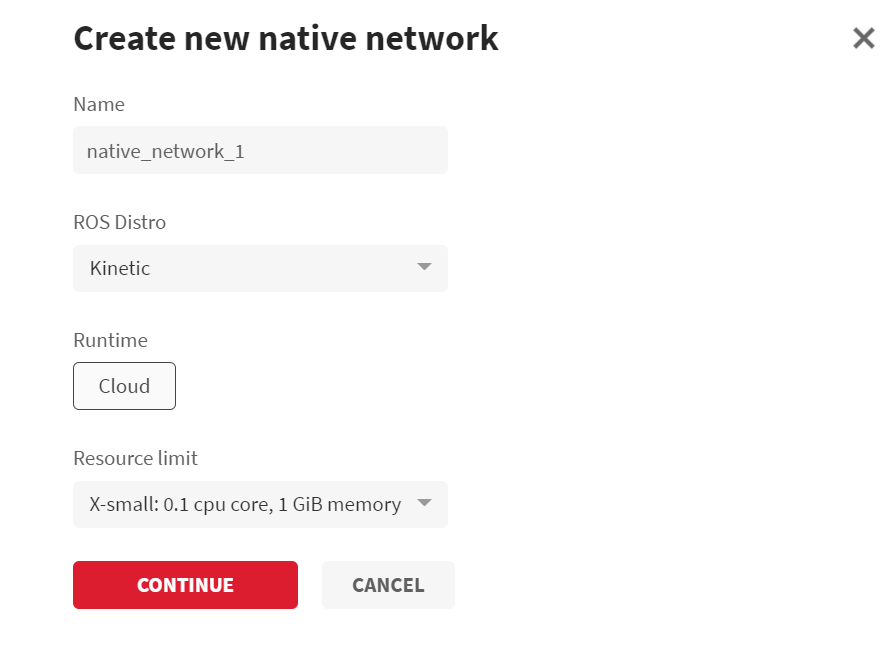
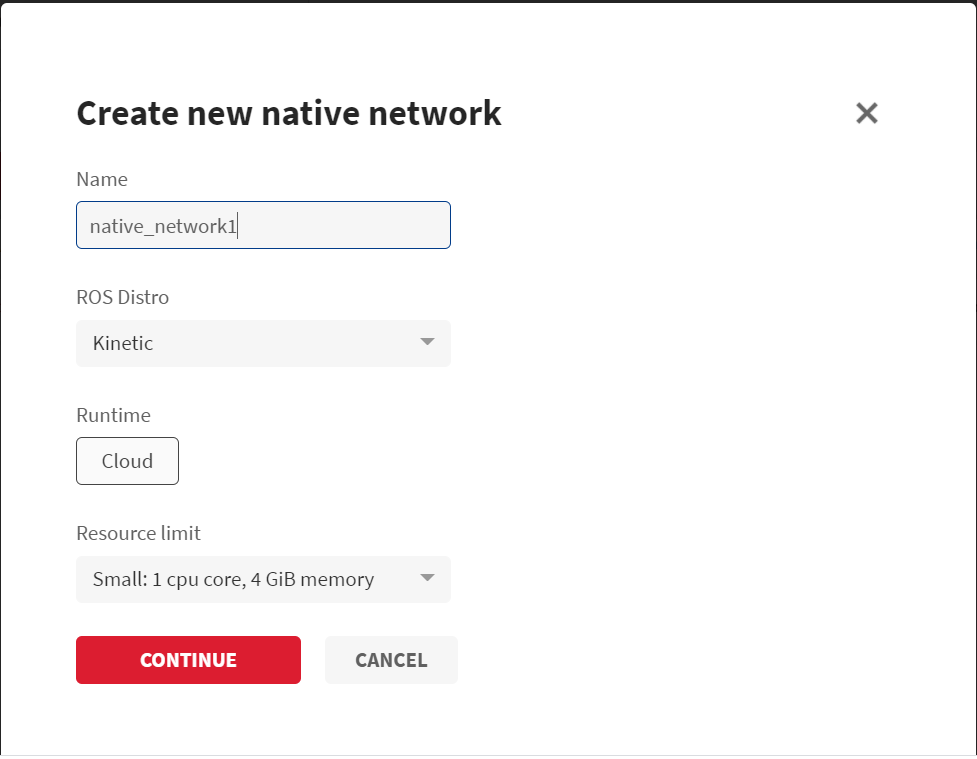
Fixed Hitesh's review comments

diff --git a/hugo/content/5_deep-dives/53_Networking-and-communication/535_ROS-network-native.md b/hugo/content/5_deep-dives/53_Networking-and-communication/535_ROS-network-native.md
@@ -3,7 +3,7 @@
 title: "ROS Native Networks"
 intro: rapyuta.io is a platform that enables robotics solution development by providing the necessary software infrastructure and facilitating the interaction between multiple stakeholders who contribute to the solution development.
 
-weight: 532
+weight: 531
 
 versions:
   free-pro-team: '*'
@@ -32,10 +32,14 @@ tags:
 Native Network is a beta feature.
 {{%/notice%}}
 
-A native network allows you to communicate between different ROS environments that are deployed either in the cloud or devices when they are in the same network.  
+A native network allows you to communicate between different ROS environments as described in the following scenarios.
+
+* ROS environments that are deployed in the cloud.
+* ROS environments that are deployed in the device within the same local area network.
+
 
 {{%notice info%}}
-This eliminates the need of creating a separate native network for the local communication and significantly decreases the latency as the communication doesn't involve a cloud bridge for individual ROS environments for communication.
+This eliminates the need of creating a separate routed network for the local communication and significantly decreases the latency as the communication doesn't involve a cloud bridge for individual ROS environments for communication.
 {{%/notice%}}
 
 In case of native network, all the connected ROS environments can discover each other and the communication happens in a peer-to-peer manner. Each ROS environment has its own ROS master and the rapyuta.io platform uses a sub-component based on [FKIE multimaster](https://github.com/fkie/multimaster_fkie) to achieve it.
@@ -43,9 +47,11 @@ In case of native network, all the connected ROS environments can discover each 
 
 ### Cloud Native Network
 
-When you deploy a native network to the cloud, it is considered as a cloud native network.
+When you deploy a native network to the cloud, it is considered as a cloud native network. Any compute resources (CPU/memory) consumed by this routed network deployment count against your cloud deployment hours quota.
 
-When creating a cloud native network, the **Resource limit** field defines the memory allocation and computational ability of the native network. These resources are reserved in the platform for effective ROS communication. You can choose the resource limit of a native network based on the following requirements.
+#### Resource Limit 
+
+When creating a cloud native network, the **Resource limit** field defines the memory allocation and computational capability of the native network. These resources are reserved in the platform for effective ROS communication. You can choose the resource limit of a native network based on the following requirements.
 
 * number of topics/services/actions
 * number of publishers/subscribers/services that will be activated under a particular native network.
@@ -69,16 +75,20 @@ We want to establish communication between these 3 ROS packages.  To simplify th
 
 The result is as follows
 
-* We have established communication between the packages in the same local area network by using a native network.
+* We have established communication between the packages deployment in the cloud (as they are  considered as being in the same local area network)
 
-Info: We can establish this communication by using a cloud routed network. However, using a touted network involves cloud bridges for each ROS environment that adds latency when service/action/topics are being called in the same local area network.
+
+{{%notice info%}}
+We can establish this communication by using a cloud routed network. However, using a routed network involves cloud bridge for each ROS environment that adds latency when service/action/topics are being called in the same local area network.
+{{%/notice%}}
 
 #### Pros 
 
-* Communication through a native network doesn't require a cloud bridge component thereby eliminating the latency in each hop-on of messages as in the case of a routed network. This results in low-latency communication.
+* Communication through a native network is happening peer-to-peer manner that means the subscriber directly makes ROSTCP connection with the publisher thereby eliminating the latency in each hop-on of messages as in the case of a routed network via cloud bridge. This results in low-latency communication.
 
 * You can see the list of publishers whitelisted in your package components in your *rostopic list* command.
 
+* Native network is very similar to the local single ROS master environment.
 
 #### Cons
 
@@ -87,7 +97,7 @@ Info: We can establish this communication by using a cloud routed network. Howev
 
 {{%notice note%}}
 When you subscribe to a topic from a different ROS environment, this subscriber information is kept locally and only shared if a topic is whitelisted in a package component.
-{{/notice}}
+{{%/notice%}}
 
 
 ### Device Native Network
@@ -99,11 +109,17 @@ Currently supported for cloud runtime only. You can use a routed network instead
 
 ### Multi-Robot Communication 
 
-* Communication is happening in a peer-peer manner, which means different ROS masters or environments are connected via platform using a sub-component based on [FKIE multi master nodes](https://github.com/fkie/multimaster_fkie) (master-discovery and master-sync). These two nodes are responsible for establishing the communication between ROS masters that are in the same network.
-
+* Communication is happening in a peer-peer manner, which means different ROS masters or environments are connected via platform using a sub-component based on [FKIE multi master nodes](https://github.com/fkie/multimaster_fkie) ([master-discovery](http://fkie.github.io/multimaster_fkie/master_discovery.html) and [master-sync](http://fkie.github.io/multimaster_fkie/master_sync.html)). These two nodes are responsible for establishing the communication between ROS masters that are in the same network.
+* Native network doesn’t share the parameters between different ROS environments.
 * Platform only whitelists the topics/service mentioned in the package component, and the platform doesn't interpret or listen to the data flowing between them unlike in case of a routed network thus reducing the latency. It only shares publisher/service information on the network.
+* Scoped or targeted topics (service or action) are the functionalities of a routed network. In the case of a native network, topics are whitelisted in the form of **/*/topics** and you can use remap or add namespaces to these topics for communication. For more information on remapping, [click here](http://wiki.ros.org/roslaunch/XML/remap).
+* While deploying a package, you can mention [ROS Environment Alias](/5_deep-dives/53_networking-and-communication/531_ros-network-routed/#ros-environment-aliases-runtime-identity-assignment) in case of native network as well. Users can use $RIO_ROS_ENV_ALIAS environment variable set by rapyuta.io add ROS_NAMESPACE in your ROS environment, which will help you in doing namespacing.
 
-* Scoped or targeted topics (service or action) are the functionalities of a routed network. In the case of a native network, topics are whitelisted in the form of **/*/topics** and you can use remap or add namespaces to these topics for communication. For more information on remapping, [click here](http://wiki.ros.org/roslaunch/XML/remap). 
+
+{{%notice warning%}}
+*for tf topic*: if you don’t add tf_prefix, don’t expose the topic as there is a possibility of mixing of tf.
+{{%/notice%}}
+
 
 
 {{%notice note%}}

diff --git a/hugo/content/4_tutorials/41_beginner/418_ros-pub-sub-native-network.md b/hugo/content/4_tutorials/41_beginner/418_ros-pub-sub-native-network.md
@@ -1,5 +1,5 @@
 ---
-title: ROS Publisher Subscriber (Native Network)
+title: ROS Publisher Subscriber (Native)
 description: null
 type: build-solutions
 date: 2019-10-24T08:17:13.000Z
@@ -45,12 +45,12 @@ The build takes about two to five minutes to build the source code in the *io_tu
 
 ## Creating the Package
 
-To create the _Docker publisher subscriber_ package using the
+To create the _native publisher subscriber_ package using the
 [console](https://console.rapyuta.io), follow the steps:
 
 1. On the left navigation bar, click **Development>Catalog**.
 2. Click **ADD NEW PACKAGE**.
-3. In the **Package Name** box, type in a name for the package say `Docker publisher subscriber`
+3. In the **Package Name** box, type in a name for the package say `Native publisher subscriber`
 4. In the **Package Version** box, enter the version of the package you are creating.
    The default value is _1.0.0_
 5. Ensure that **Is a bindable package** is selected.
@@ -101,7 +101,7 @@ The name of a component must consist of alphabets [A-Z, a-z], digits [0-9], hyph
 The name of an executable must consist of alphabets [A-Z, a-z], digits [0-9], hyphen - and an underscore _ character, and must not begin with a digit.
 {{% /notice %}}
     6. For **Executable Type**, click on **Builds**.
-    7. In the **Choose Build** select the second Build `io-tutorials-arm32v7` from the drop-down list.
+    7. In the **Choose Build** select the second Build `io-tutorials` from the drop-down list.
     8. In the **Command to run in the docker container** box, enter the command:
         ```bash
         roslaunch listener listener.launch
@@ -114,18 +114,18 @@ The name of an executable must consist of alphabets [A-Z, a-z], digits [0-9], hy
     9. Click **NEXT** > **CONFIRM PACKAGE CREATION**.
 
 ## Create a Native Network
-A native network allows you to establish ROS communication between different ROS environments within the same local area network. Binding a native network resource to your deployment will enable other deployments on the same native network to consume ROS topics/services/actions as defined in the package. If you have already created a routed network, you can skip this procedure.
+If you have already created a native network, you can skip this procedure. For more information about native network, [click here](/5_deep-dives/53_networking-and-communication/535_ros-network-native/)
 
-Perform the following procedure to create a routed network.
+Perform the following procedure to create a native network.
 
 1. On the left navigation bar, click **Networking>Networks**.
 2. Click **ADD  NETWORK** and select the network type as **Native Network**.
-3. In the **Create new native network** dialog-box, enter `cloud_native_network_1` as the name for the native network.
+3. In the **Create new native network** dialog-box, enter `cloud_native_network1` as the name for the native network.
 4. Select **ROS Distro**, as   **Kinetic**.
 5. Select the **Runtime** as **Cloud**.
 6. From the **Resource limit** field, select the memory allocation and computational ability of the routed network. These resources are reserved in the platform for effective ROS communication. For this tutorial, you can select **Small: 1cpu core, 4 GiB memory** as the resource limit.
 
-7. Click **CONTINUE** and wait for the routed network to be successfully running.
+7. Click **CONTINUE** and wait for the native network to be successfully running.
 
 
 ## Deploying the package
@@ -133,11 +133,11 @@ To deploy a package using the [console](https://console.rapyuta.io),
 follow the steps:
 
 1. On the left navigation bar, click **Development>Catalog**.
-2. Select the _Docker publisher subscriber_ package.
+2. Select the ` native publisher subcriber` package.
 3. Click **Deploy package**.
 4. In the **Name of deployment** box, enter a name for the deployment you are
-   creating say `Docker Publisher Subscriber Deployment`.
-5. Click on **Native NETWORK** > **Add**, select the routed network, `cloud_native_network_1`, from the drop-down list.
+   creating say `Native Publisher Subscriber Deployment`.
+5. Click on **Native NETWORK** > **Add**, select the native network, `cloud_native_network1`, from the drop-down list.
 6. Click **CREATE DEPLOYMENT** > **Confirm**.
 
 You will be redirected to the newly created deployment's **Details** page where a green colored bar
@@ -145,7 +145,7 @@ moves from **In progress** to **Succeeded** with **Status:Running** indicating t
 
 You may also analyze the corresponding deployment logs to check if everything is working OK.
 
-![Docker Publisher Subscriber Deployment](/images/tutorials/docker-pub-sub/docker-pubsub-deployment.png?classes=border,shadow&width=50pc)
+![Docker Publisher Subscriber Deployment](/images/tutorials/docker-pub-sub/native-pubsub-deployment.png?classes=border,shadow&width=50pc)
 
 The **listener-listenerExecutable** will be streaming */listener I heard hello_world* logs.
 

diff --git a/hugo/content/5_deep-dives/53_Networking-and-communication/531_ROS-network-routed.md b/hugo/content/5_deep-dives/53_Networking-and-communication/531_ROS-network-routed.md
@@ -3,7 +3,7 @@
 title: "ROS Routed Networks"
 intro: rapyuta.io is a platform that enables robotics solution development by providing the necessary software infrastructure and facilitating the interaction between multiple stakeholders who contribute to the solution development.
 
-weight: 531
+weight: 532
 
 versions:
   free-pro-team: '*'
@@ -28,14 +28,14 @@ introLinks: {}
 tags:
     - Deep Dive
 ---
-A routed network allows you to communicate between different ROS environments in the following.
+A routed network allows you to communicate between different ROS environments as described in the following scenarios.
 
 * ROS environments that are deployed in the cloud.
 * ROS environments that are deployed in the device (can be in same or different networks)
 * A combination of both
 
 {{%notice info%}}
-To reduce the latency, it's advised to use native network within the same local area network. For more information, [click here](/5_deep-dives/53_networking-and-communication/535_ros-network-native/).
+In latency sensitive applications, when all the ROS environments are in  (For example, in case of simulation), it is advised to use native network. For more information, [click here](/5_deep-dives/53_networking-and-communication/535_ros-network-native/).
 {{%/notice%}}
 
 In case of routed network, the rapyuta.io platform relies on a sub-component called the cloud bridge for implicitly establishing a communication channel between two or more ROS environments. It is an application-level bridge that offers many compelling features to ROS developers including augmented ROS over the public internet and dedicated features for dynamic multi-robot ROS communication. 
@@ -46,9 +46,9 @@ When a user deploys a routed network to the cloud it is considered a cloud route
 
 Package deployments in the cloud __OR__ device can connect to a cloud routed network.
 
-#### Resource Limit for Cloud Routed Network
+#### Resource Limit
 
-When creating a cloud routed network, the **Resource limit** field defines the memory allocation and computational ability of the routed network. These resources are reserved in the platform for effective ROS communication. You can choose the resource limit of a routed network based on the following requirements.
+When creating a cloud routed network, the **Resource limit** field defines the memory allocation and computational capability of the routed network. These resources are reserved in the platform for effective ROS communication. You can choose the resource limit of a routed network based on the following requirements.
 
 * size of ROS messages
 * frequency of ROS messages
@@ -107,17 +107,14 @@ We want to establish a communication between these 3  ROS packages.  You can use
 The result is as follows
 
 * We have established a communication between the packages in the same routed network.
-
-Info: We can achieve the communication by using a cloud routed network. However, using a cloud routed network might cause a latency in the  communication even if the devices are sharing the same local area network.
+{{%notice info%}}
+We can achieve the communication by using a cloud routed network. However, using a cloud routed network might cause a latency in the  communication even if the devices are sharing the same local area network.
+{{%/notice%}}
 
 #### Pros 
-
 * Creates a low-latency communication as there is no need of a roundtrip of communication through cloud.
-
 #### Cons
-
 * Communication through a device routed network is only possible for the ROS environments sharing the same local area network and the packages deployed in the devices.
-
 
 ### Multi-Robot Communication
 

diff --git a/hugo/content/4_tutorials/41_beginner/411_ros-pub-sub.md b/hugo/content/4_tutorials/41_beginner/411_ros-pub-sub.md
@@ -1,5 +1,5 @@
 ---
-title: ROS Publisher Subsciber (Cloud Routed Network)
+title: ROS Publisher Subsciber (Routed)
 description: null
 type: build-solutions
 date: 2019-10-24T08:17:13.000Z
@@ -16,7 +16,7 @@ is launched when the package is deployed.
 ## Learning objectives
 The tutorial will show you how to deploy a basic ROS package
 with a _ROS publisher_ running on the cloud and a
-_ROS subscriber_ running on a device such as Raspberry PI.
+_ROS subscriber_ running on a device such as Raspberry PI by using a cloud routed network.
 It also shows how to use dockercompose runtime on a device.
 
 ## Prerequisites
@@ -138,7 +138,7 @@ The name of an executable must consist of alphabets [A-Z, a-z], digits [0-9], hy
 	10. Click **NEXT** > **CONFIRM PACKAGE CREATION**.
 
 ## Create a Cloud Routed Network
-A routed network allows you to establish ROS communication between different ROS package deployment. Binding a routed network resource to your deployment will enable other deployments on the same routed network to consume ROS topics/services/actions as defined in the package. If you have already created a routed network, you can skip this procedure.
+If you have already created a routed network, you can skip this procedure. For more information about routed network, [click here](/5_deep-dives/53_networking-and-communication/531_ros-network-routed/)
 
 Perform the following procedure to create a routed network.
 

diff --git a/hugo/content/5_deep-dives/53_Networking-and-communication/534_ROS-communication.md b/hugo/content/5_deep-dives/53_Networking-and-communication/534_ROS-communication.md
@@ -37,12 +37,18 @@ Using a network resource to your deployment will enable other deployments on the
 
 ## ROS Network Types
 
-* [Routed Network](/5_deep-dives/53_networking-and-communication/531_ros-network-routed/): A routed network allows you to communicate between different ROS environments in the following.
+
+* [Native network](/5_deep-dives/53_networking-and-communication/535_ros-network-native/): 
+A native network allows you to communicate between different ROS environments as described in the following scenarios.
+
+  * ROS environments that are deployed in the cloud.
+  * ROS environments that are deployed in the device within the same local area network.
+
+* [Routed Network](/5_deep-dives/53_networking-and-communication/531_ros-network-routed/): A routed network allows you to communicate between different ROS environments as decribed in the following scenarios.
 
   * ROS environments that are deployed in the cloud.
   * ROS environments that are deployed in the device (can be in same or different networks)
   * A combination of both
-* [Native network](/5_deep-dives/53_networking-and-communication/535_ros-network-native/): A native network allows you to communicate between different ROS environments that are deployed either in the cloud or devices when they are in same network.  
 
 
 

diff --git a/hugo/content/3_how-tos/34_networking-and-communication/341_creating-ros-routed-networks.md b/hugo/content/3_how-tos/34_networking-and-communication/341_creating-ros-routed-networks.md
@@ -65,8 +65,8 @@ Follow these steps to create a native network.
 3. Enter a name for the native network. 
 4. Select **ROS Distro** as either **Kinetic** or **Melodic** based on ROS version of package components it will be binding to.
 5. By default, the **Runtime** is **Cloud**.
-5. From the **Resource limit** field, select the memory allocation and computational ability of the routed network. These resources are reserved in the platform for effective ROS communication. You can select one of the following resource limits based on your requirement.
-  * **X-Small**: 0.1cpu core, 1 GiB memory
+5. From the **Resource limit** field, select the memory allocation and computational ability of the native network. These resources are reserved in the platform for effective ROS communication. You can select one of the following resource limits based on your requirement.
+  * **X-Small**: 0.5cpu core, 2 GiB memory
   * **Small**: 1cpu core, 4 GiB memory
   * **Medium**: 2cpu core, 8 GiB memory
   * **Large**: 4cpu core, 16 GiB memory

diff --git a/hugo/content/3_how-tos/35_tooling_and_debugging/354_view-deployment-logs.md b/hugo/content/3_how-tos/35_tooling_and_debugging/354_view-deployment-logs.md
@@ -239,4 +239,12 @@ Viewing routed network logs is same as viewing any component logs.
 
 To view or analyse the corresponding routed network logs, do the following.
 
- 1. click **Historical Logs** and under **Source** and check the routed network for which you want to view the logs. 
+ 1. click **Historical Logs** and under **Source** and check the routed network for which you want to view the logs.
+
+## Native Network Logs
+
+Viewing native network logs is same as viewing any component logs.
+
+To view or analyse the corresponding native network logs, do the following.
+
+ 1. click **Historical Logs** and under **Source** and check the native network for which you want to view the logs.

diff --git a/hugo/content/5_deep-dives/53_Networking-and-communication/533_traditional-network.md b/hugo/content/5_deep-dives/53_Networking-and-communication/533_traditional-network.md
@@ -2,6 +2,7 @@
 
 title: "Traditional Network"
 intro: rapyuta.io is a platform that enables robotics solution development by providing the necessary software infrastructure and facilitating the interaction between multiple stakeholders who contribute to the solution development.
+draft: true
 
 weigth: 533
 
